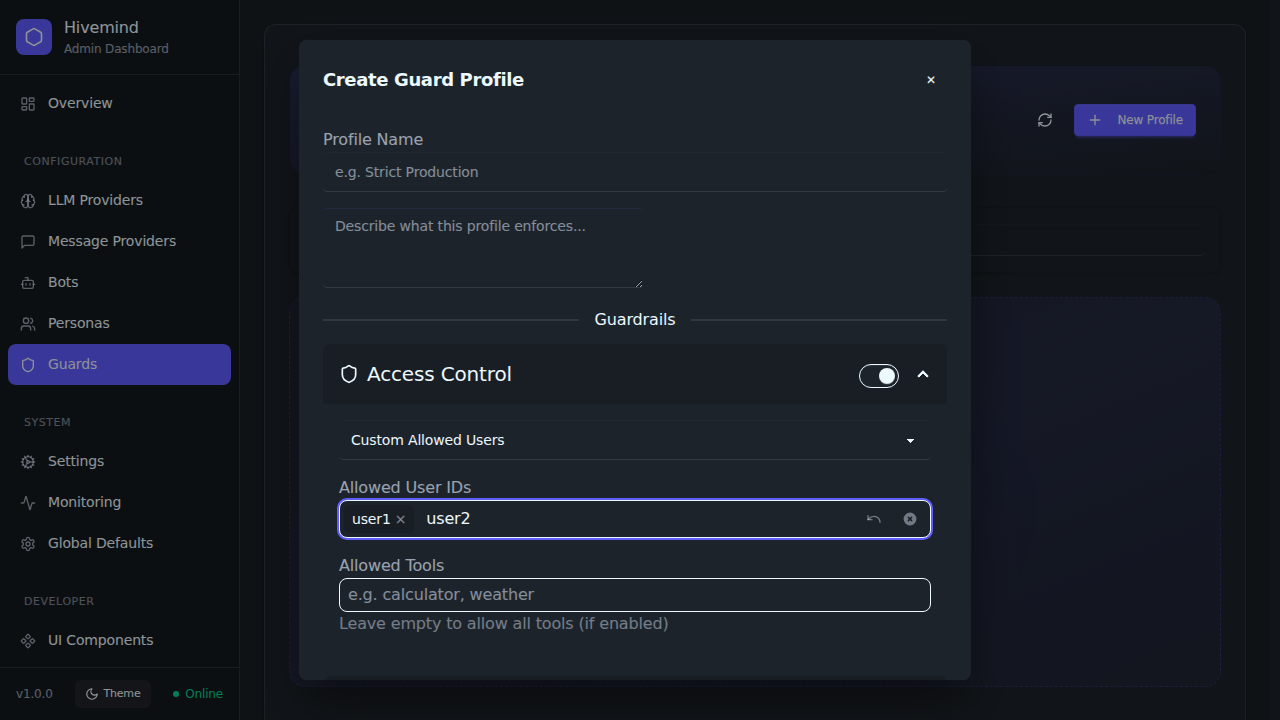
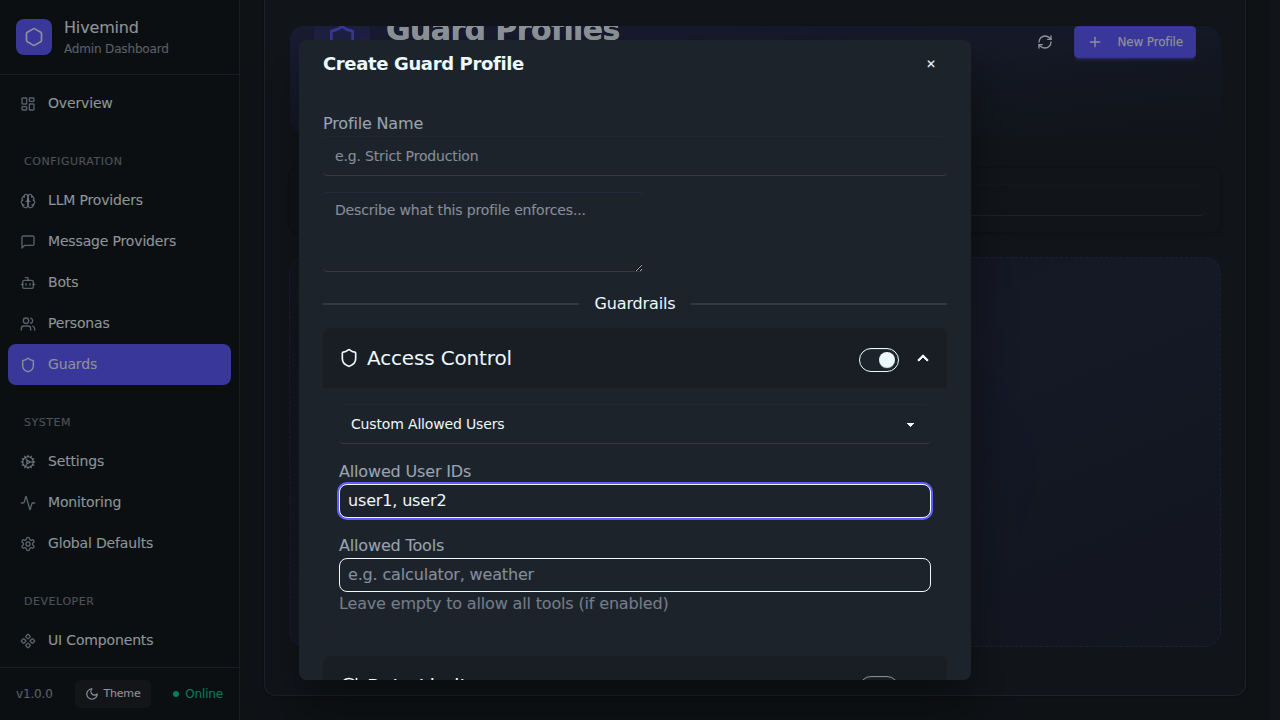
Rebase resolve (#1704)

diff --git a/src/client/src/components/Common/CommaSeparatedInput.tsx b/src/client/src/components/Common/CommaSeparatedInput.tsx
@@ -166,15 +166,18 @@ export const CommaSeparatedInput: React.FC<CommaSeparatedInputProps> = ({
   };
 
   const handleInputChange = (e: React.ChangeEvent<HTMLInputElement>) => {
-    const newValue = e.target.value;
-    if (newValue.includes(',')) {
-      commitInput(newValue);
-    } else {
-      setInputValue(newValue);
-      setShowSuggestions(true);
-      if (internalError) {
-        setInternalError(null);
-      }
+    let newValue = e.target.value;
+    // We only auto-format if the user is not actively deleting characters.
+    // This prevents the "backspace trap" where deleting the auto-inserted space
+    // immediately re-inserts it.
+    const isDeleting = (e.nativeEvent as InputEvent).inputType?.startsWith('delete');
+    if (!isDeleting) {
+      newValue = newValue.replace(/,([^ ])/g, ', $1');
+    }
+    setInputValue(newValue);
+    setShowSuggestions(true);
+    if (internalError) {
+      setInternalError(null);
     }
   };
 
